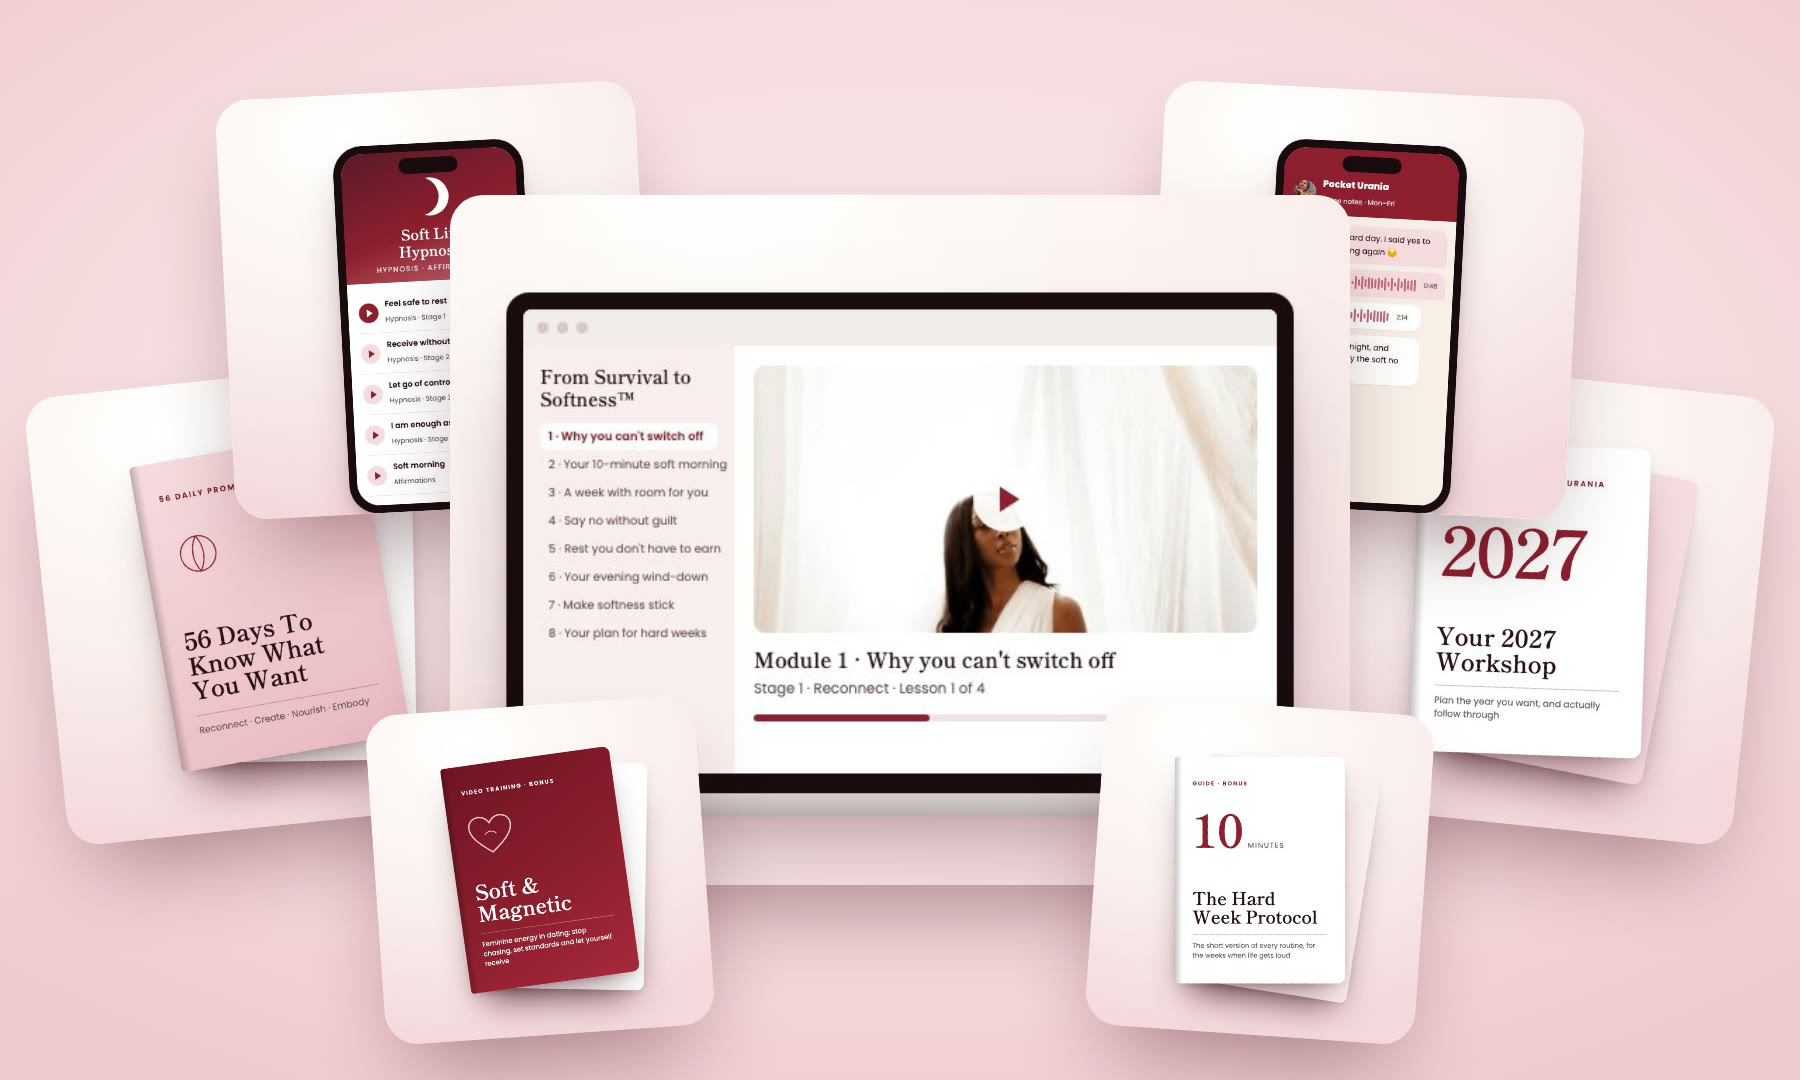
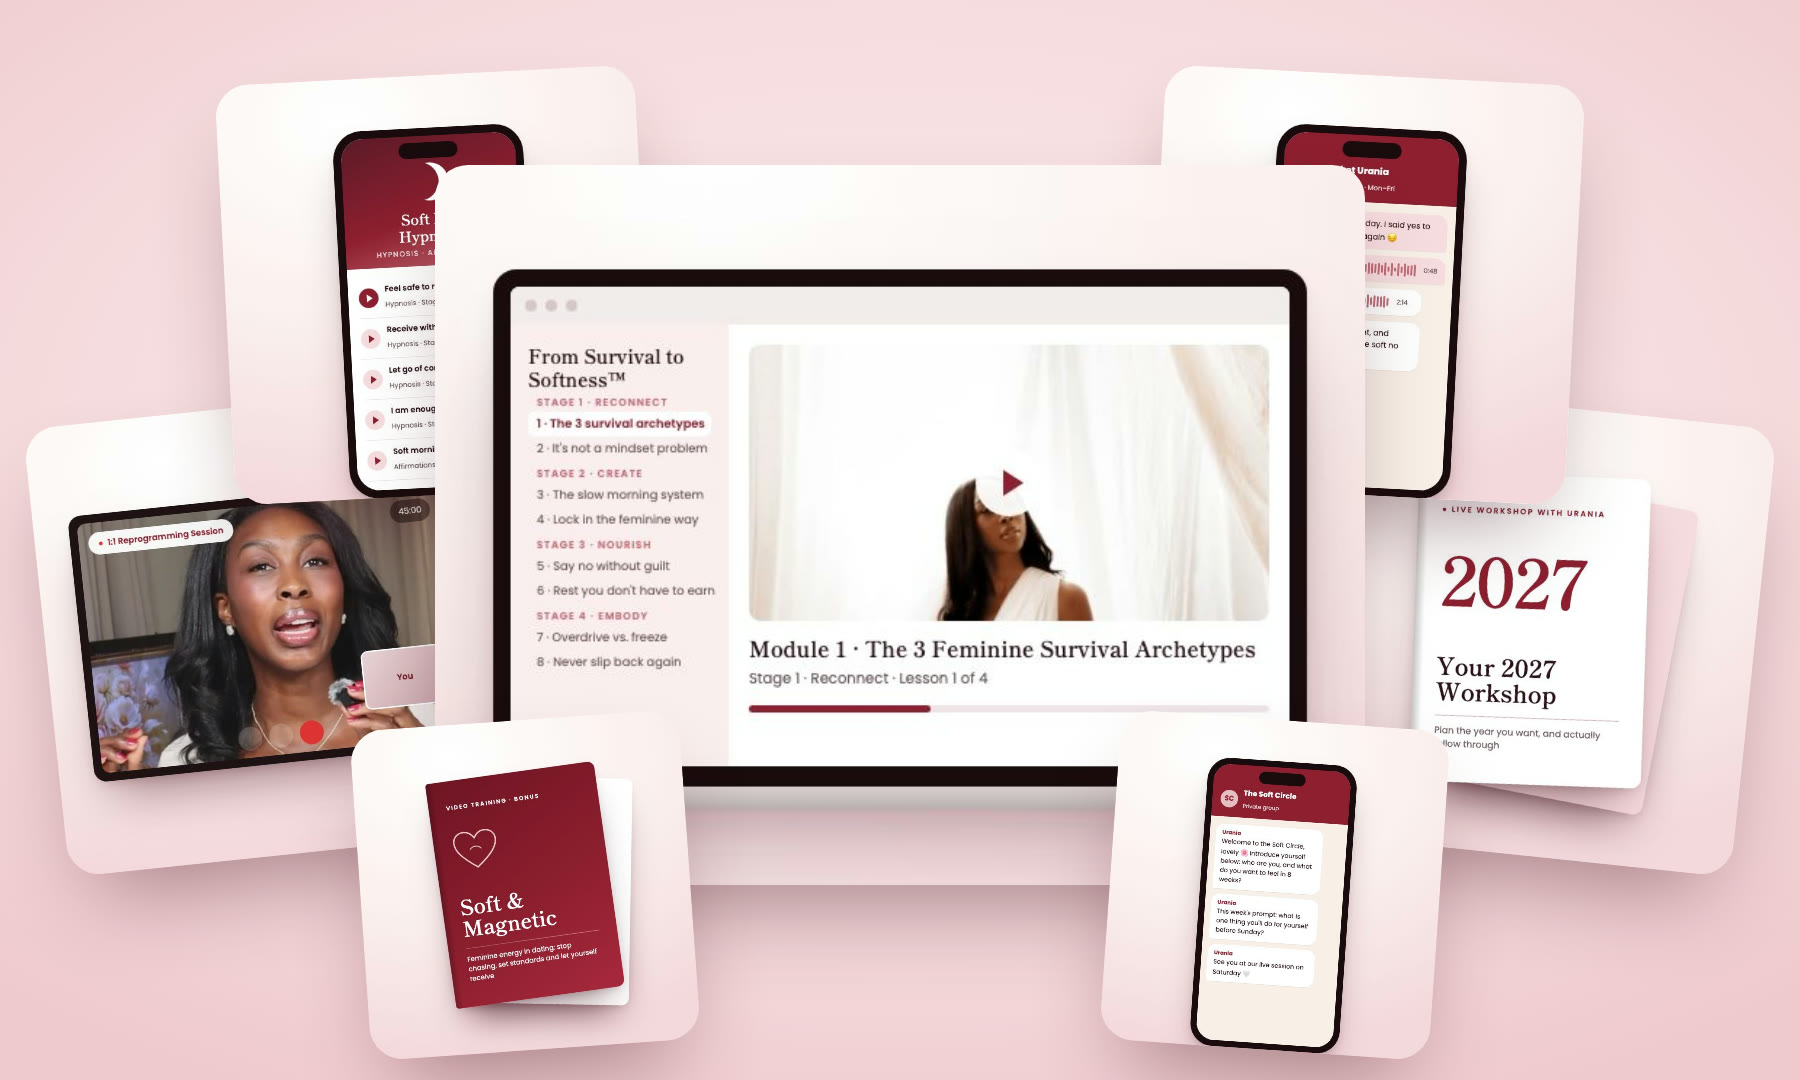
Modules from Urania's own frameworks, collage with current bonuses, 13 testimonials

diff --git a/index.html b/index.html
@@ -242,7 +242,7 @@ footer{padding:30px 20px 44px;text-align:center;font-size:13px;color:var(--mute)
       <p class="secure">Secure your spot today</p>
       <img class="bundle" src="img/bundle.jpg" alt="The program, the reprogramming session, the hypnosis sessions and the journal">
 
-      <div class="chk"><h3><span class="k">The From Survival to Softness™ 8-Week Program</span></h3><p>My flagship program, a step-by-step 4-stage method where I take you from survival mode to a soft, calm life in just 8 weeks. This includes my full Reconnect, Create, Nourish &amp; Embody method, my 10-minute Soft Morning Routine, the exact Soft Calendar I use to plan my own week, boundaries you can say out loud without guilt, the Hard Week Protocol for the weeks when everything lands on you, my Soft Sunday Reset, a journal prompt for every single day, 6 live coaching calls with me and a ton more, so you can finally rest without feeling like you have to earn it, stop running on empty and feel soft and feminine again. ($2,997 Value)</p></div>
+      <div class="chk"><h3><span class="k">The From Survival to Softness™ 8-Week Program</span></h3><p>My flagship program, a step-by-step 4-stage method where I take you from survival mode to a soft, calm life in just 8 weeks. You'll discover which of the 3 Feminine Survival Archetypes is running your life, why your exhaustion is not a mindset problem but your nervous system (and how to calm it so you can finally receive), my Slow Morning System so you start your day calm instead of in chaos, how to lock in the feminine way and get more done with less force, how to say no without guilt, even to the people who count on you, how to rest without feeling like you have to earn it, the 2 ways women get stuck (overdrive and freeze) and how to get out of both, and your plan so you never slip back into survival mode. Plus the exact Soft Calendar I use to plan my own week, the Hard Week Protocol, a journal prompt for every day, 6 live coaching calls with me and a ton more, so you can finally stop running on empty and feel soft and feminine again. ($2,997 Value)</p></div>
 
       <div class="chk"><h3><span class="k">BONUS #1:</span> Your Private 1:1 Subconscious Reprogramming Session With Me</h3><p>Just you and me for 45 minutes. Your head already knows you deserve rest, but the rest of you doesn't believe it yet. In this session we find the belief underneath it, like "I have to earn my rest", "I have to do it all alone" or "I have to be perfect to be loved", and we reprogram it. You pick what we work on: self-worth, receiving, love or money. ($397 Value)</p></div>
 
@@ -291,6 +291,27 @@ footer{padding:30px 20px 44px;text-align:center;font-size:13px;color:var(--mute)
         <span class="who">— A woman in my community</span></div>
       <div class="t"><q>You have been such a light on my journey.</q>
         <div class="cm"><div class="cm-top"><span class="cm-av"></span><span class="cm-name"></span></div><p>Thank you so much Urania. You have been such a light on my journey.</p><div class="cm-act"><span>👍</span><span>👎</span><span>Reply</span></div></div>
+        <span class="who">— A woman in my community</span></div>
+      <div class="t"><q>I've felt such a difference since starting my days with your morning affirmations.</q>
+        <div class="cm"><div class="cm-top"><span class="cm-av"></span><span class="cm-name"></span></div><p>I've felt such a difference since starting my days with your daily morning affirmations.</p><div class="cm-act"><span>👍 38</span><span>👎</span><span>Reply</span></div></div>
+        <span class="who">— A woman in my community</span></div>
+      <div class="t"><q>After repeating these affirmations out loud I feel much calmer.</q>
+        <div class="cm"><div class="cm-top"><span class="cm-av"></span><span class="cm-name"></span></div><p>After repeating these affirmations out loud I feel much calmer and more positive. Thank you 🙏🏽😊</p><div class="cm-act"><span>👍 52</span><span>👎</span><span>Reply</span></div></div>
+        <span class="who">— A woman in my community</span></div>
+      <div class="t"><q>I'm gaining my confidence one day at a time.</q>
+        <div class="cm"><div class="cm-top"><span class="cm-av"></span><span class="cm-name"></span></div><p>Thank you for these affirmations. I listen to them every morning and im gaining my confidence one day at a time. Im gentle and patient with myself ❤</p><div class="cm-act"><span>👍 1</span><span>👎</span><span>Reply</span></div></div>
+        <span class="who">— A woman in my community</span></div>
+      <div class="t"><q>Your vibe feels truly nourishing for my nervous system.</q>
+        <div class="cm"><div class="cm-top"><span class="cm-av"></span><span class="cm-name"></span></div><p>I just discovered your channel this week... your voice is so soothing, your vibe feels truly nourishing for my nervous system. I'm glad for your progress and you make me see how useful for the world it is to pour into yourself</p><div class="cm-act"><span>👍</span><span>👎</span><span>Reply</span></div></div>
+        <span class="who">— A woman in my community</span></div>
+      <div class="t"><q>You are helping me on the road to becoming the highest version of me.</q>
+        <div class="cm"><div class="cm-top"><span class="cm-av"></span><span class="cm-name"></span></div><p>I did an exercise where I was asked to write down a list of people who inspire me. I definitely thought of you Urania 🦋💕✨ thank you for all your womanly wisdom and guidance. You are helping me on the road to becoming the highest version of me and I'm so excited!!</p><div class="cm-act"><span>👍 14</span><span>👎</span><span>Reply</span></div></div>
+        <span class="who">— A woman in my community</span></div>
+      <div class="t"><q>This was among my daily routine for the whole year.</q>
+        <div class="cm"><div class="cm-top"><span class="cm-av"></span><span class="cm-name"></span></div><p>This was among my daily routine for the whole year ❤thank you so much. May the Lord bless you</p><div class="cm-act"><span>👍</span><span>👎</span><span>Reply</span></div></div>
+        <span class="who">— A woman in my community</span></div>
+      <div class="t"><q>I feel like I'm radiating.</q>
+        <div class="cm"><div class="cm-top"><span class="cm-av"></span><span class="cm-name"></span></div><p>Listened during my self care routine this morning and I feel like I'm radiating 🌞</p><div class="cm-act"><span>👍 144</span><span>👎</span><span>Reply</span></div></div>
         <span class="who">— A woman in my community</span></div>
   </div>
 </section>
